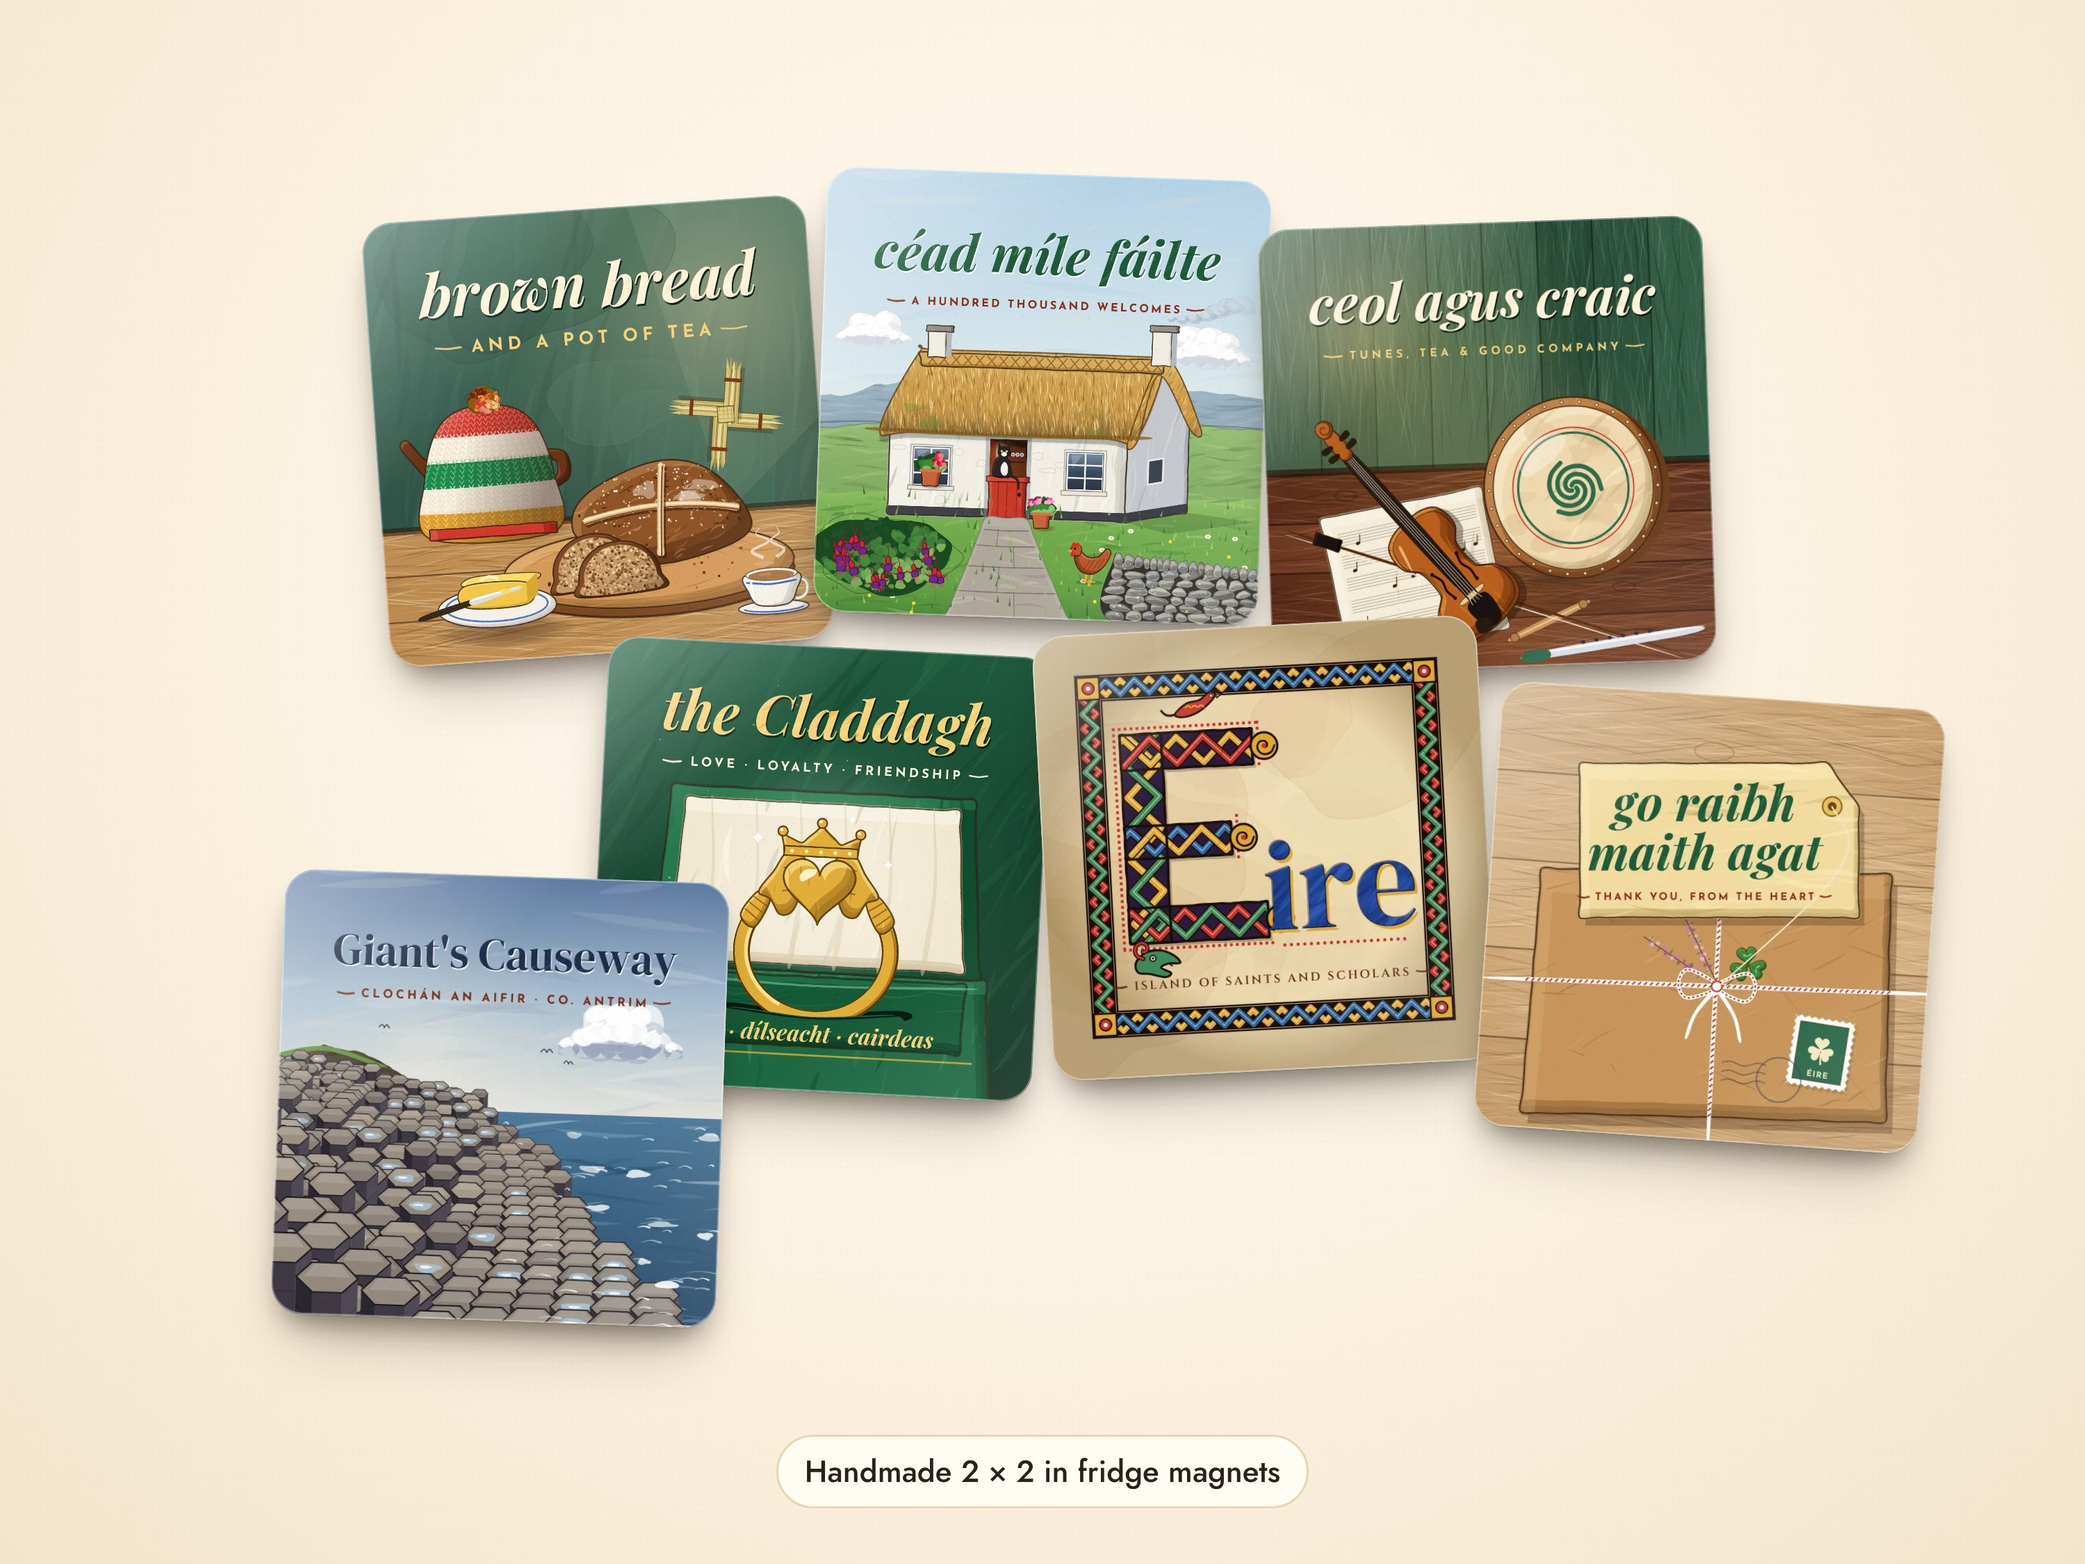
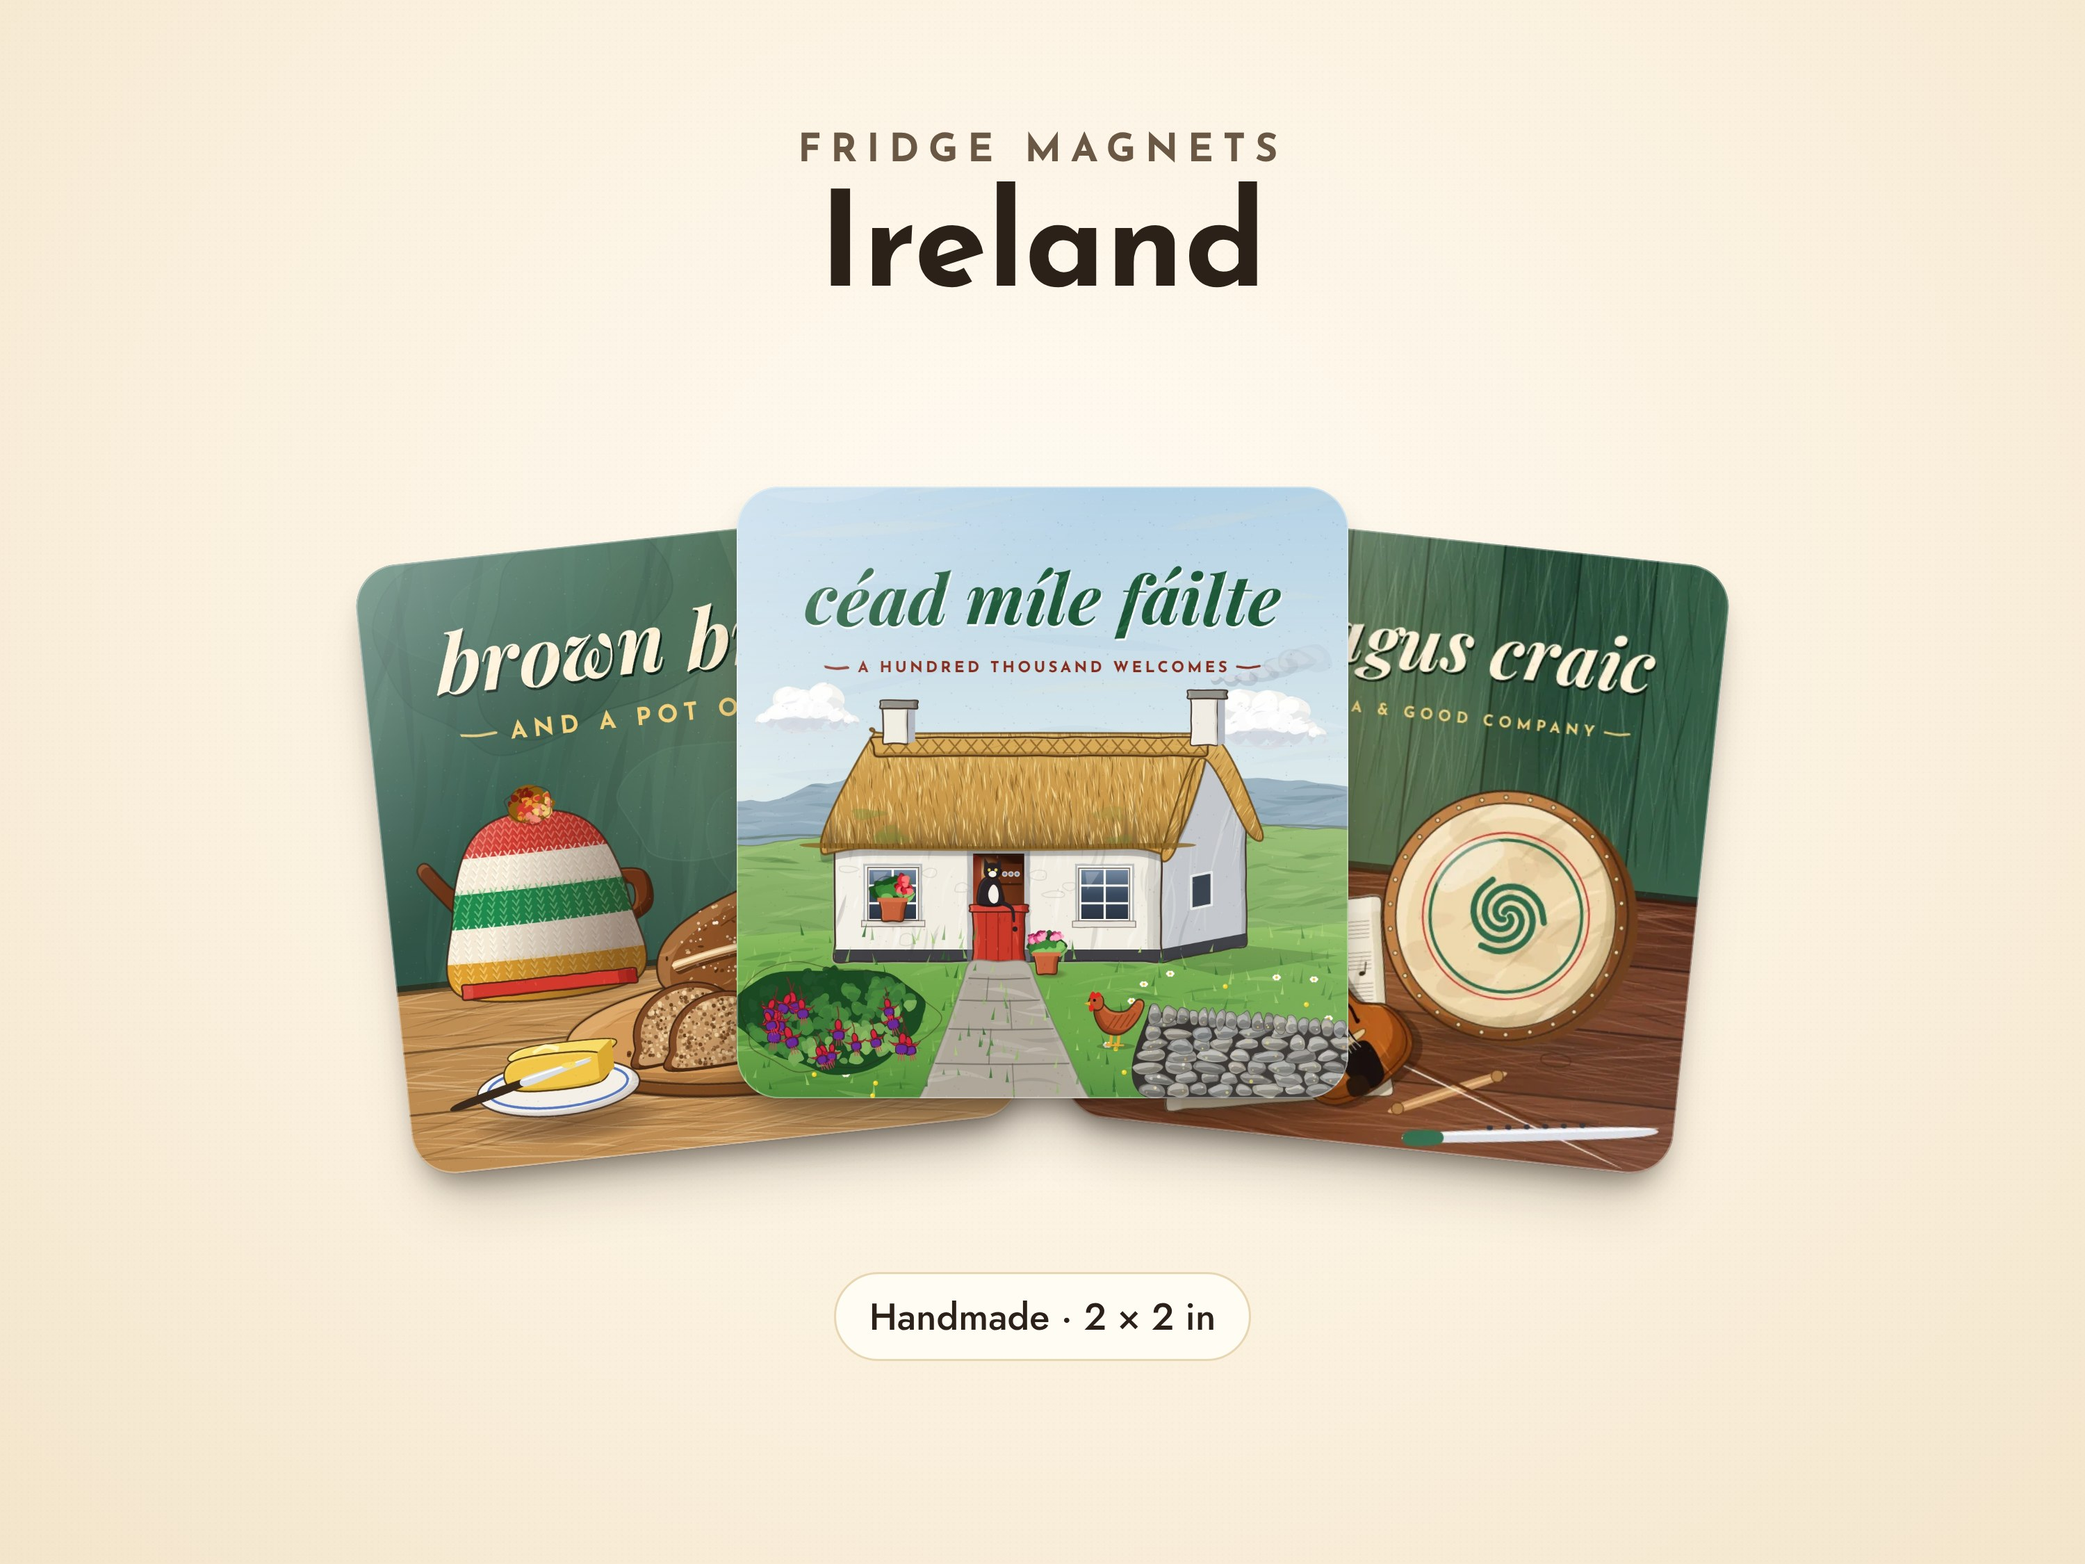
Etsy: capas novas (quadradas, com o nome da coleção e 3 ímãs grandes) e um botão para mandar fotos novas aos anúncios que já estão no ar
Claude-Session: https://claude.ai/code/session_016n4mufs5CJAVa9w4556yAn

diff --git a/functions/etsy.js b/functions/etsy.js
@@ -150,6 +150,29 @@ function inventory(l, readinessStateId) {
   return { products, price_on_property: v.prices ? [CUSTOM_PROPERTY] : [], quantity_on_property: [], sku_on_property: [CUSTOM_PROPERTY], readiness_state_on_property: [] };
 }
 
+/** Sends the listing's photos from number `from` on, in order (retrying a dropped upload). */
+async function uploadImages(l, shopId, id, from = 0) {
+  for (let i = from; i < l.images; i++) {
+    const blob = await fetchImage(`${siteUrl()}/etsy/img/${l.id}/${i + 1}.jpg?v=${LISTINGS.imagesVersion || 1}`);
+    for (let attempt = 1; ; attempt++) {
+      const fd = new FormData();
+      fd.append("image", blob, `${l.id}-${i + 1}.jpg`);
+      fd.append("rank", String(i + 1));
+      fd.append("alt_text", `${l.alt || l.title}`.slice(0, 250));
+      try { await call("POST", `/shops/${shopId}/listings/${id}/images`, { multipart: fd }); break; } catch (err) {
+        if (attempt >= 3) throw err;
+        await new Promise((r) => setTimeout(r, PAUSE_MS * attempt));   // Etsy's photo service sometimes drops a connection
+      }
+    }
+  }
+}
+/** New photos for a listing already on Etsy (the photo set changed: imagesVersion): the old ones out, the new ones in. */
+async function replaceImages(l, shopId, id) {
+  const old = (await call("GET", `/listings/${id}/images`)).results || [];
+  for (const im of old) await call("DELETE", `/shops/${shopId}/listings/${id}/images/${im.listing_image_id}`);
+  await uploadImages(l, shopId, id, 0);
+}
+
 async function publishOne(l, shopId, s, fetchImage, resumeId) {
   const minPrice = r2(Math.min(...(l.variations[0].prices || [l.price])));
   const form = {
@@ -172,22 +195,10 @@ async function publishOne(l, shopId, s, fetchImage, resumeId) {
     id = (await call("POST", `/shops/${shopId}/listings`, { form })).listing_id;
     await col().doc("listings").set({ [l.id]: { listingId: id, state: "draft", at: nowIso() } }, { merge: true });
   }
-  for (let i = have; i < l.images; i++) {
-    const blob = await fetchImage(`${siteUrl()}/etsy/img/${l.id}/${i + 1}.jpg`);
-    for (let attempt = 1; ; attempt++) {
-      const fd = new FormData();
-      fd.append("image", blob, `${l.id}-${i + 1}.jpg`);
-      fd.append("rank", String(i + 1));
-      fd.append("alt_text", `${l.alt || l.title}`.slice(0, 250));
-      try { await call("POST", `/shops/${shopId}/listings/${id}/images`, { multipart: fd }); break; } catch (err) {
-        if (attempt >= 3) throw err;
-        await new Promise((r) => setTimeout(r, PAUSE_MS * attempt));   // Etsy's photo service sometimes drops a connection
-      }
-    }
-  }
+  await uploadImages(l, shopId, id, have);
   await call("PUT", `/listings/${id}/inventory`, { json: inventory(l, s.readinessStateId) });
   const live = await call("PATCH", `/shops/${shopId}/listings/${id}`, { form: { state: "active" } });
-  const row = { listingId: id, state: live.state || "active", url: live.url || `https://www.etsy.com/listing/${id}`, at: nowIso(), error: "" };
+  const row = { listingId: id, state: live.state || "active", imagesV: LISTINGS.imagesVersion || 1, url: live.url || `https://www.etsy.com/listing/${id}`, at: nowIso(), error: "" };
   await col().doc("listings").set({ [l.id]: row }, { merge: true });
   return row;
 }
@@ -206,7 +217,11 @@ async function status() {
   return {
     keystring: !!k.keystring, secret: !!k.secret, connected: !!(a && a.refresh), shop: a && a.shopId ? { id: a.shopId, name: a.shopName || "", url: a.shopUrl || "" } : null,
     category: s.taxonomyPath || "",
-    listings: LISTINGS.listings.map((l) => ({ id: l.id, name: l.name, section: l.section, images: l.images, ...(done[l.id] || { state: "" }) })),
+    listings: LISTINGS.listings.map((l) => {
+      const d = done[l.id] || { state: "" };
+      return { id: l.id, name: l.name, section: l.section, images: l.images, ...d,
+        newPhotos: d.state === "active" && Number(d.imagesV || 1) < Number(LISTINGS.imagesVersion || 1) };
+    }),
   };
 }
 
@@ -246,12 +261,18 @@ async function adminEtsy(data, auth) {
       const a = await readDoc("auth");
       if (!a || !a.shopId) fail("failed-precondition", "Etsy isn't connected yet. Tap “Connect Etsy” first.");
       const done = ((await readDoc("listings")) || {})[l.id];
-      if (done && done.state === "active") return { listing: { id: l.id, ...done }, skipped: true };
+      if (done && done.state === "active") {
+        if (Number(done.imagesV || 1) >= Number(LISTINGS.imagesVersion || 1)) return { listing: { id: l.id, ...done }, skipped: true };
+        await replaceImages(l, a.shopId, done.listingId);
+        const row = { ...done, imagesV: LISTINGS.imagesVersion || 1, error: "", at: nowIso() };
+        await col().doc("listings").set({ [l.id]: row }, { merge: true });
+        return { listing: { id: l.id, ...row, newPhotos: false } };
+      }
       try {
         const s = await setup(a.shopId);
         return { listing: { id: l.id, ...(await publishOne(l, a.shopId, s, fetchImage, done && done.listingId)) } };
       } catch (err) {
-        await col().doc("listings").set({ [l.id]: { ...(done || {}), state: (done && done.listingId) ? "draft" : "", error: String(err.message || err).slice(0, 300), at: nowIso() } }, { merge: true });
+        await col().doc("listings").set({ [l.id]: { ...(done || {}), state: (done && done.state) || ((done && done.listingId) ? "draft" : ""), error: String(err.message || err).slice(0, 300), at: nowIso() } }, { merge: true });
         throw err;
       }
     }

diff --git a/admin/admin-etsy.js b/admin/admin-etsy.js
@@ -43,16 +43,17 @@
 
   function listings(d) {
     var rows = d.listings || [];
-    var left = rows.filter(function (l) { return l.state !== 'active'; }).length;
+    var left = rows.filter(function (l) { return l.state !== 'active' || l.newPhotos; }).length;
+    var onlyPhotos = left && rows.every(function (l) { return l.state === 'active'; });
     var btn = !d.connected ? '' : st.publishing
       ? '<p class="small"><b>' + T('Publishing ', 'Publicando ') + st.at + T(' of ', ' de ') + st.total + '…</b> ' + esc(st.current) + '<br><span class="muted">' + T('Keep this screen open. Each one takes about half a minute.', 'Deixe esta tela aberta. Cada um leva mais ou menos meio minuto.') + '</span></p>'
-      : left ? '<p><button class="btn btn-honey" data-act="etsyPublish">' + icon('shop') + T('Publish the ' + left + ' that are missing', 'Publicar os ' + left + ' que faltam') + '</button></p>' +
+      : left ? '<p><button class="btn btn-honey" data-act="etsyPublish">' + icon('shop') + (onlyPhotos ? T('Send the new photos to ' + left + ' listings', 'Mandar as fotos novas para ' + left + ' produtos') : T('Publish the ' + left + ' that are missing', 'Publicar os ' + left + ' que faltam')) + '</button></p>' +
         '<p class="tiny muted">' + T('Etsy charges $0.20 for each listing.', 'O Etsy cobra $0,20 por produto publicado.') + '</p>' : '';
     var list = rows.map(function (l) {
-      var s = STATE[l.state] || STATE[''];
+      var s = l.state === 'active' && l.newPhotos ? ['New photos to send', 'Fotos novas para mandar', 'warn'] : (STATE[l.state] || STATE['']);
       return '<li class="et-row"><div><b>' + esc(l.name) + '</b><span class="small muted"> · ' + esc(l.section) + ' · ' + l.images + T(' photos', ' fotos') + '</span>' +
         (l.error ? '<div class="small err">' + esc(l.error) + '</div>' : '') + '</div>' +
-        (l.state === 'active' && l.url ? '<a class="pill ok" href="' + esc(l.url) + '" target="_blank" rel="noopener">' + esc(T(s[0], s[1])) + ' ' + icon('external') + '</a>'
+        (l.state === 'active' && l.url && !l.newPhotos ? '<a class="pill ok" href="' + esc(l.url) + '" target="_blank" rel="noopener">' + esc(T(s[0], s[1])) + ' ' + icon('external') + '</a>'
           : '<span class="pill ' + s[2] + '">' + esc(T(s[0], s[1])) + '</span>') + '</li>';
     }).join('');
     return '<section class="card"><div class="card-head"><div><h2>' + T('Listings', 'Produtos') + '</h2><p class="sub">' +
@@ -103,7 +104,7 @@
     h.call('adminEtsy', { action: 'disconnect' }).then(function (d) { st.data = d; h.route(); }).catch(function (e) { h.toast(h.friendlyError(e), true); });
   };
   ACT.etsyPublish = function () {
-    var todo = (st.data.listings || []).filter(function (l) { return l.state !== 'active'; });
+    var todo = (st.data.listings || []).filter(function (l) { return l.state !== 'active' || l.newPhotos; });
     st.publishing = true; st.total = todo.length; st.at = 0;
     var failed = 0;
     var next = function (i) {

diff --git a/functions/test/etsy.test.js b/functions/test/etsy.test.js
@@ -29,7 +29,8 @@ function setup() {
     if (u.endsWith("/readiness-state-definitions")) return ok({ readiness_state_id: 9002 });
     if (u.endsWith("/policies/return") && m === "GET") return ok({ results: [{ return_policy_id: 1, accepts_returns: false, accepts_exchanges: false, return_deadline: null }] });
     if (u.endsWith("/policies/return")) return ok({ return_policy_id: 9003 });
-    if (/\/listings\/\d+\/images$/.test(u) && m === "GET") return ok({ results: [{}, {}] });
+    if (/\/listings\/\d+\/images$/.test(u) && m === "GET") return ok({ results: [{ listing_image_id: 71 }, { listing_image_id: 72 }] });
+    if (/\/images\/\d+$/.test(u) && m === "DELETE") return ok({});
     if (u.endsWith("/images") && globalThis.__dropImage > 0) { globalThis.__dropImage -= 1; return { ok: false, status: 500, json: async () => ({ error: "photos-writer failure upload" }) }; }
     if (u.endsWith("/seller-taxonomy/nodes")) return ok({ results: [{ id: 1, name: "Home & Living", children: [{ id: 2, name: "Home Decor", children: [{ id: 1068, name: "Magnets", children: [] }] }] }] });
     if (u.endsWith("/sections") && m === "GET") return ok({ results: [] });
@@ -144,4 +145,21 @@ test("a draft left by an earlier try is finished (no second listing), and a drop
   assert.equal(patch.get("return_policy_id"), "9003");
   const posts = calls.filter((c) => c.u.endsWith("/5151/images") && c.m === "POST");
   assert.equal(posts.length, 6 - 2 + 1, "the 2 photos already there are kept; the 4 missing are sent, one of them twice");
+});
+
+test("new photos for listings already on Etsy: the old ones out, the new set in, once", async () => {
+  const { db, calls, E } = setup();
+  db.docs.set("etsy/auth", { access: "777.abc", refresh: "r1", expiresAt: Date.now() + 3600e3, shopId: 55 });
+  db.docs.set("etsy/listings", { brasil: { listingId: 4242, state: "active", url: "u" } });
+  let st = await E.adminEtsy({ action: "status" }, ADMIN);
+  assert.equal(st.listings.find((l) => l.id === "brasil").newPhotos, true);
+  const r = await E.adminEtsy({ action: "publish", id: "brasil" }, ADMIN);
+  assert.equal(r.listing.state, "active");
+  assert.equal(calls.filter((c) => c.m === "DELETE").length, 2);
+  assert.equal(calls.filter((c) => c.u.endsWith("/4242/images") && c.m === "POST").length, 6);
+  assert.equal(calls.filter((c) => /\/shops\/55\/listings$/.test(c.u)).length, 0);
+  st = await E.adminEtsy({ action: "status" }, ADMIN);
+  assert.equal(st.listings.find((l) => l.id === "brasil").newPhotos, false);
+  const again = await E.adminEtsy({ action: "publish", id: "brasil" }, ADMIN);
+  assert.equal(again.skipped, true);
 });

diff --git a/admin/index.html b/admin/index.html
@@ -17,28 +17,28 @@
 <link rel="preconnect" href="https://fonts.googleapis.com">
 <link rel="preconnect" href="https://fonts.gstatic.com" crossorigin>
 <link rel="stylesheet" href="https://fonts.googleapis.com/css2?family=Bebas+Neue&family=DM+Serif+Display&family=Josefin+Sans:wght@600;700&family=Jost:wght@400;500;600&family=Playfair+Display:ital,wght@1,700&family=Cinzel:wght@600&family=DM+Mono:wght@500&family=Caveat:wght@600&family=Dancing+Script:wght@600&family=Cormorant+Garamond:ital,wght@1,600&display=swap">
-<link rel="stylesheet" href="admin.css?v=56">
+<link rel="stylesheet" href="admin.css?v=57">
 <script>try { var t = localStorage.getItem('lhh-admin-theme'); if (t === 'light' || t === 'dark') document.documentElement.setAttribute('data-theme', t); } catch (e) {}</script>
 </head>
 <body>
 <div id="app"><div class="boot boot-placeholder"></div></div>
-<script src="boot.js?v=56"></script>
+<script src="boot.js?v=57"></script>
 <section class="slip" id="slip" aria-hidden="true" translate="no"></section>
 <div class="toast" id="toast" role="status" aria-live="polite"></div>
 <div class="tip" id="tip" hidden></div>
 <script src="../assets/firebase-config.js"></script>
-<script src="i18n-pt.js?v=56"></script>
-<script src="i18n.js?v=56"></script>
-<script src="reports.js?v=56"></script>
-<script src="zip.js?v=56"></script>
-<script src="admin.js?v=56"></script>
-<script src="admin-order.js?v=56"></script>
-<script src="admin-more.js?v=56"></script>
-<script src="admin-plan.js?v=56"></script>
-<script src="admin-visits.js?v=56"></script>
-<script src="admin-returns.js?v=56"></script>
-<script src="admin-etsy.js?v=56"></script>
-<script src="admin-supplies.js?v=56"></script>
+<script src="i18n-pt.js?v=57"></script>
+<script src="i18n.js?v=57"></script>
+<script src="reports.js?v=57"></script>
+<script src="zip.js?v=57"></script>
+<script src="admin.js?v=57"></script>
+<script src="admin-order.js?v=57"></script>
+<script src="admin-more.js?v=57"></script>
+<script src="admin-plan.js?v=57"></script>
+<script src="admin-visits.js?v=57"></script>
+<script src="admin-returns.js?v=57"></script>
+<script src="admin-etsy.js?v=57"></script>
+<script src="admin-supplies.js?v=57"></script>
 <script>
 /* installable phone app: sw.js caches only the app shell, never order data */
 window.addEventListener('beforeinstallprompt', function (e) { e.preventDefault(); window.__hiveInstall = e; document.dispatchEvent(new Event('hive-installable')); });

diff --git a/admin/sw.js b/admin/sw.js
@@ -6,7 +6,7 @@
    It also shows the owners' notifications (Web Push from functions/push.js: new orders, messages, card holds…). */
 'use strict';
 
-var CACHE = 'hive-admin-shell-v55';
+var CACHE = 'hive-admin-shell-v56';
 var SHELL = ['./', 'index.html', 'admin.css', 'boot.js', 'i18n-pt.js', 'i18n.js', 'reports.js', 'zip.js', 'admin.js', 'admin-order.js', 'admin-more.js', 'admin-plan.js', 'admin-visits.js', 'admin-returns.js', 'admin-etsy.js', 'admin-supplies.js',
   'manifest.webmanifest', 'icons/icon-192.png', 'icons/icon-512.png', 'icons/apple-touch-icon.png', '../assets/favicon.svg'];
 
